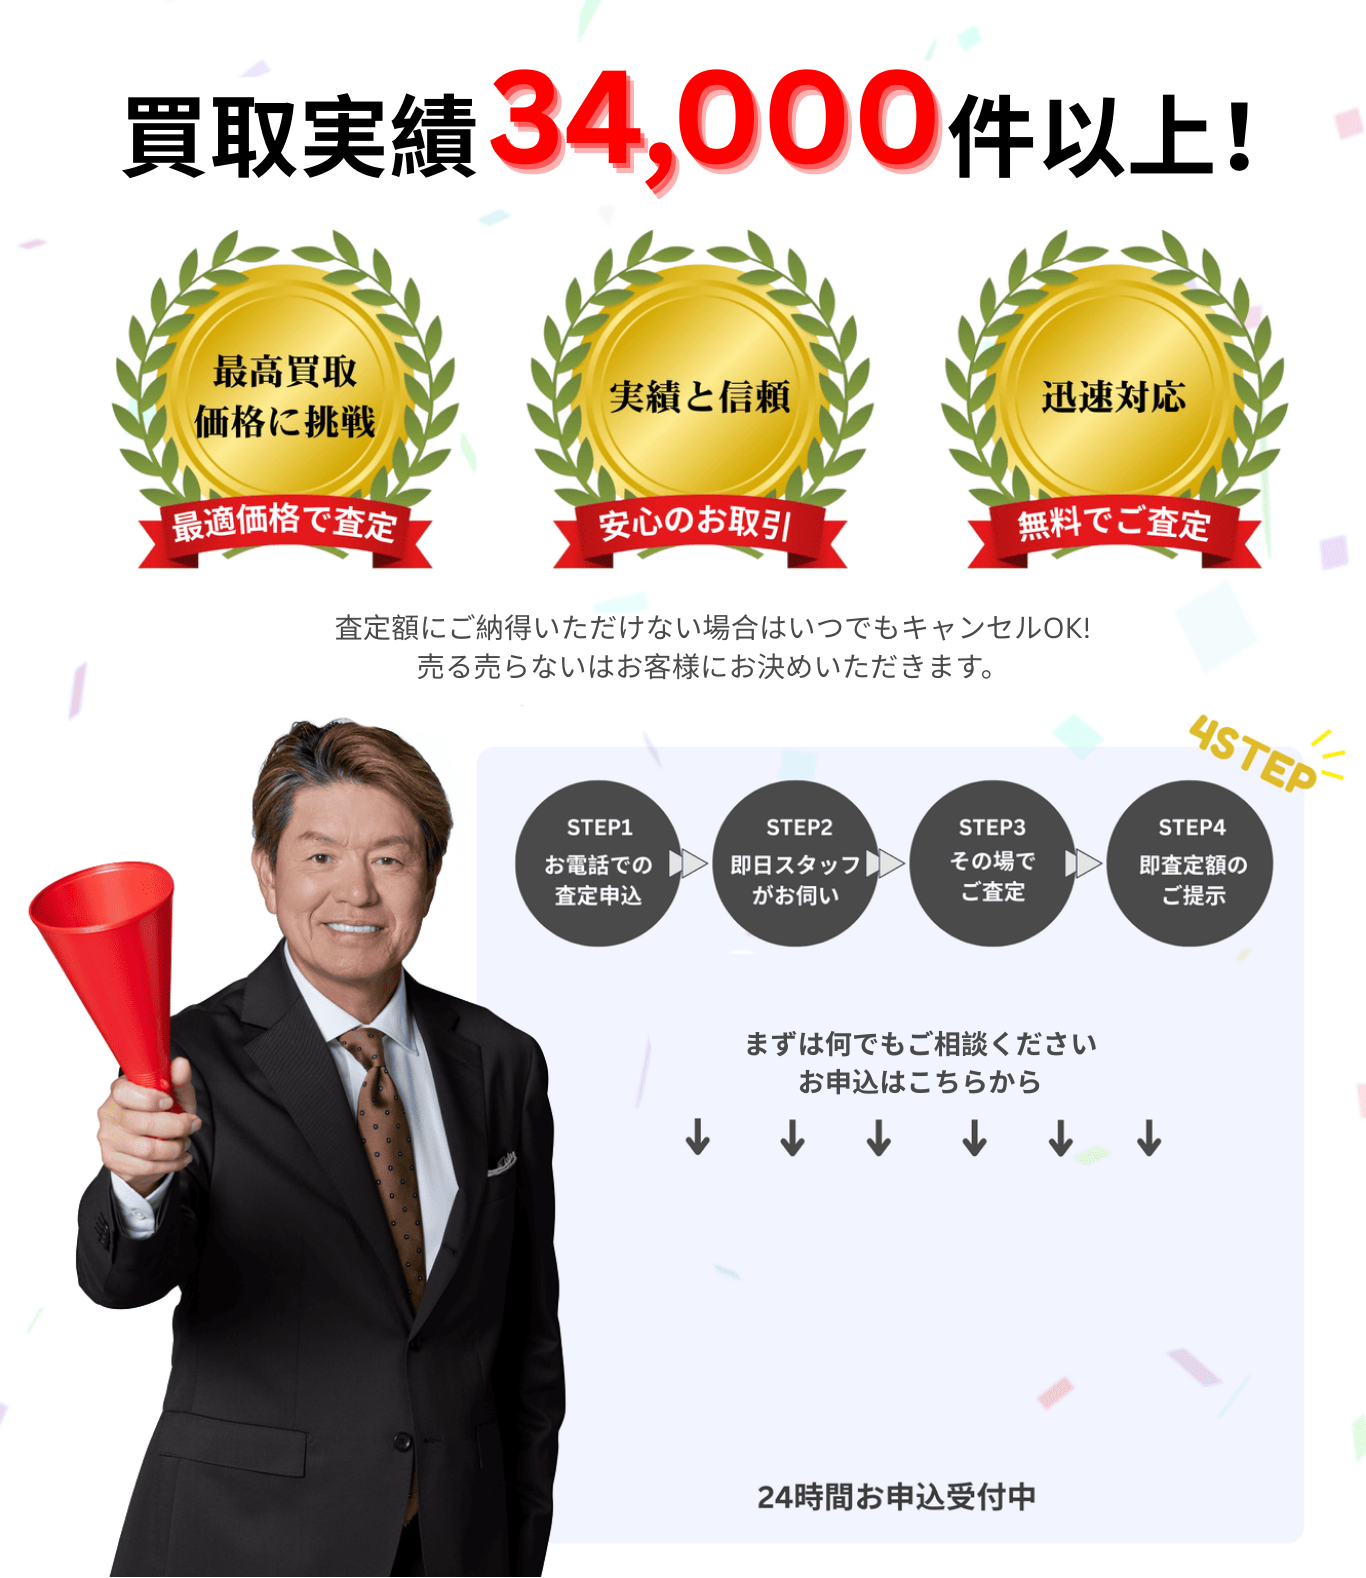
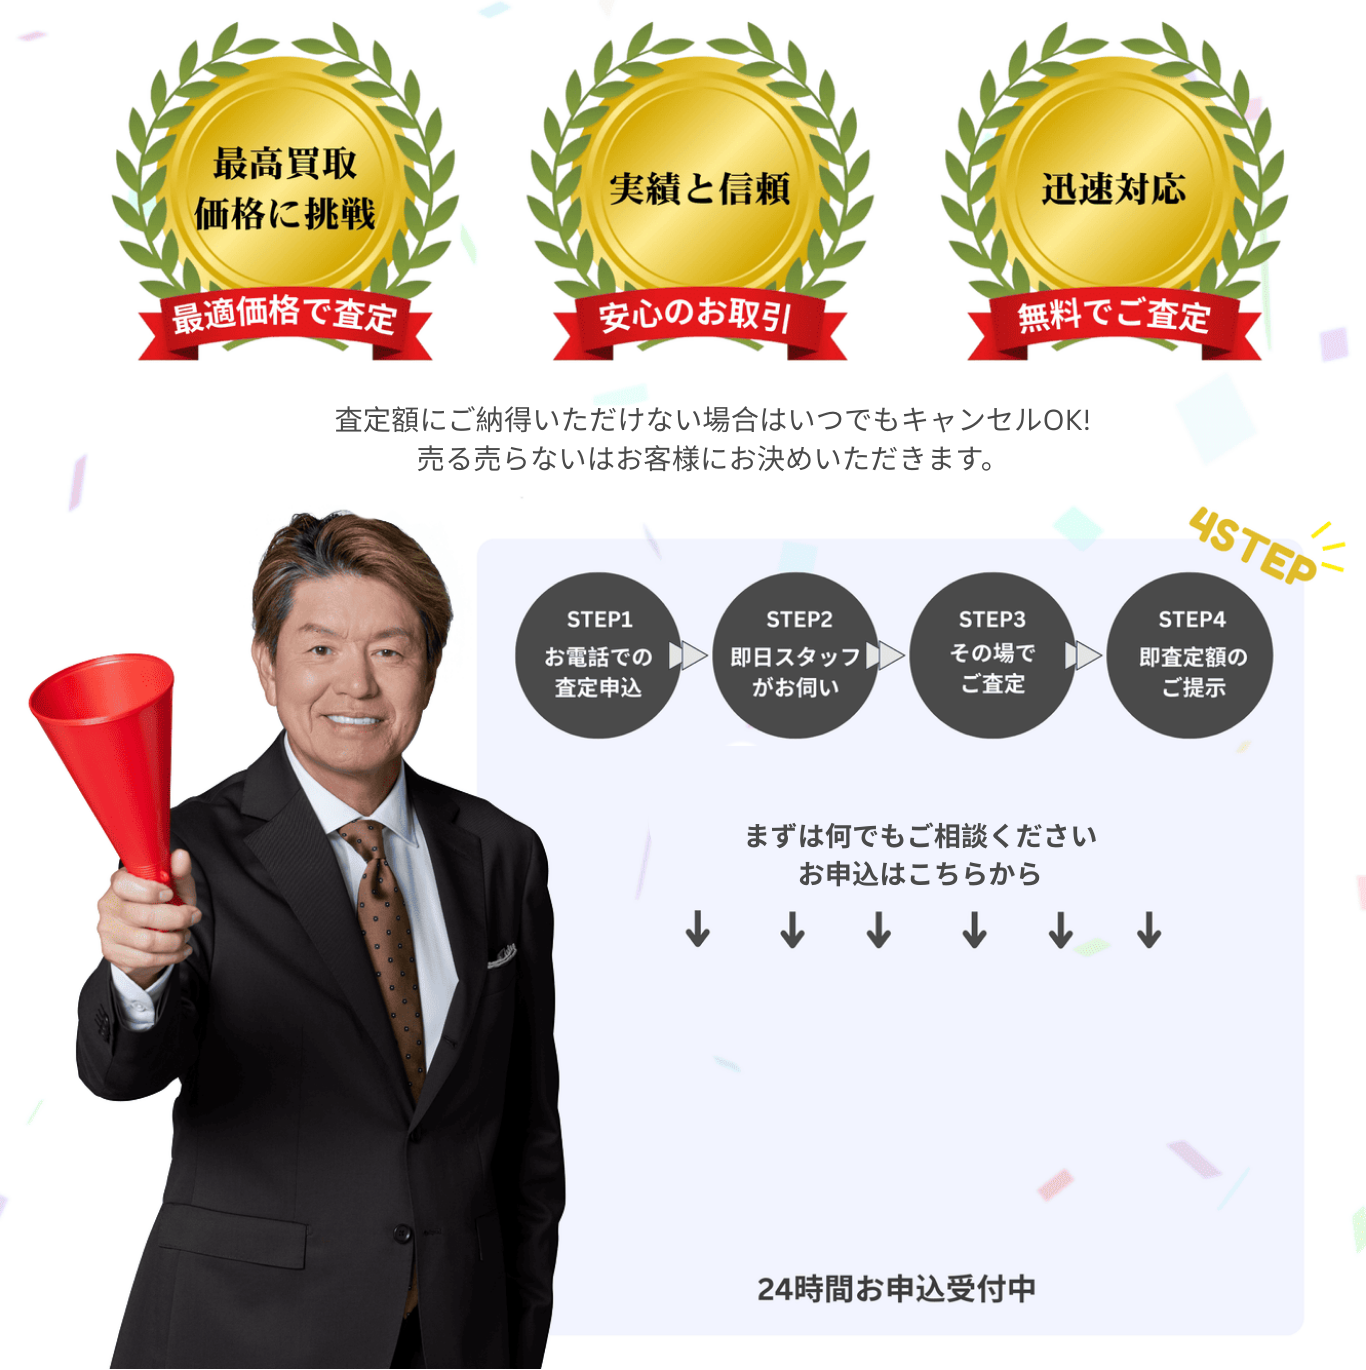
修正依頼

diff --git a/index.html b/index.html
@@ -101,7 +101,7 @@
 			<ul>
 				<li><a href="#">ホーム</a></li>
 				<li><a href="#about">サービス内容</a></li>
-				<li><a href="#hero">お問い合わせ</a></li>
+				<li><a href="#customer">お問い合わせ</a></li>
 				<li><a href="QA.html">Q&A</a></li>
 				<li class="line-button-phone"><a href="https://lin.ee/xbqQiAp" class="line-button">LINEで無料査定</a></li>
 			</ul>
@@ -121,14 +121,15 @@
 	<!-- ヒーローセクション -->
 	<section id="hero" class="hero hero_pc">
 		<div class="heroBackground">
-			<img src="img/heroTop2.png" alt="説明テキスト" class="heropage-image">
+			<img src="img/heroTop.png" alt="説明テキスト" class="heropage-image">
 		</div>
 	</section>
 	<section id="hero" class="hero hero_phone">
 		<div class="heroBackground">
-			<img src="img/heroTop_phone2.png" alt="説明テキスト" class="heropage-image">
+			<img src="img/heroTop_phone.png" alt="説明テキスト" class="heropage-image">
 		</div>
 	</section>
+	<img src="img/AchivementNums.png" alt="説明テキスト" class="jisseki-image">
 
 	<section class="page3 page3_pc">
 		<div class="background">
@@ -152,7 +153,7 @@
 
 	<section class="purchase-items">
 		<div class="container">
-			<h2>買取品目</h2>
+			<img src="img/purchase_title.png" class="purchase-items_title">
 			<p>ご自宅に眠っている不用品が思わぬ値段になることも！</p>
 
 			<ul class="items-grid4">
@@ -229,18 +230,25 @@
 					<span>お酒</span>
 				</li>
 			</ul>
-			<p class="cta">今すぐ<a href="https://lin.ee/xbqQiAp" class="highlight">買取依頼</a>をしたい方は<a
-					href="https://lin.ee/xbqQiAp" class="highlight">こちら</a>から</p>
+			<img src="img/item_subtitle.png" class="item_subtitle">
+<!--			<p class="cta">今すぐ<a href="https://lin.ee/xbqQiAp" class="highlight">買取依頼</a>をしたい方は<a-->
+<!--					href="https://lin.ee/xbqQiAp" class="highlight">こちら</a>から</p>-->
 		</div>
 	</section>
+	
+	<section class=""
 
 	<!-- Aboutセクション全体 -->
 	<section id="about" class="about">
 		<div class="container">
+			<a href="https://lin.ee/xbqQiAp" class="cta-btn">
+				<img src="img/cta.png" alt="お問い合わせはこちら" class="cta">
+			</a>
+
 			<div class="page-image-wrapper">
-				<img src="img/AchivementNums.png" alt="実績件数" class="page-image">
+				<img src="img/threeReasons.png" class="threeReasons">
 			</div>
-			<h1>買取スマートはここがすごい！</h1>
+<!--			<h1>買取スマートはここがすごい！</h1>-->
 
 			<!-- Reason 1 -->
 			<div class="reason reason-left">
@@ -317,8 +325,7 @@
 
 	<section class="purchase-results">
 		<div class="container">
-			<h2>買取実績例</h2>
-
+			<img src="img/item-results_title.png" class="item-results_title">
 			<div class="results-grid">
 				<!-- Row 1 -->
 				<div class="row">
@@ -445,7 +452,7 @@
 					<div class="result-item">
 						<img src="jisseki-items/imitation.png" alt="イミテーション">
 						<div class="result-info">
-							<span class="category">イミテーション<br>まとめ</span>
+							<span class="category">イミテーション</span>
 							<span class="name">買取価格</span>
 							<span class="price">25,000円</span>
 						</div>
@@ -497,11 +504,12 @@
 				<button class="show-less-btn" onclick="toggleView(false)" style="display: none;">閉じる</button>
 			</div>
 		</div>
+
 	</section>
 
-	<section class="customer-reviews">
+	<section id="customer" class="customer-reviews">
 		<div class="review-container">
-			<h2 class="review-title">お客様の声</h2>
+			<img src="img/customer.png" class="customer">
 			<div class="content-wrapper">
 				<!-- レビューのスライダー -->
 				<div class="review-slider">

diff --git a/css/purchaseSection.css b/css/purchaseSection.css
@@ -1,8 +1,14 @@
+.purchase-items_title{
+	margin: auto;
+	width: 100%;
+}
+
 /* 基本スタイル */
 .purchase-items {
-	background-color: #f2f2f2;
+	background-color: #ffc74e;
 	padding: 2rem 1rem;
 	text-align: center;
+	padding-top: 0;
 }
 
 .purchase-items .container {
@@ -21,6 +27,7 @@
 	font-size: 1rem;
 	color: #555;
 	margin-bottom: 2rem;
+	font-weight: bold;
 }
 
 /* 共通のグリッドスタイル */
@@ -73,13 +80,22 @@
 	font-size: 1.7rem;
 	font-weight: bold;
 	color: #333;
-	margin-top: 2rem;
+	margin-top: 0;
 }
 
 .cta .highlight {
 	color: red;
 	font-weight: bold;
 	text-decoration: none;
+}
+
+.item_subtitle{
+	width: 100%;
+	margin-top: 20px;
+}
+
+.cta{
+	width: 100%;
 }
 
 /* レスポンシブ対応: 画面幅縮小時の調整 */
@@ -98,7 +114,7 @@
 	}
 
 	.purchase-items p {
-		font-size: 0.6rem;
+		font-size: 0.9rem;
 		/* 説明文を縮小 */
 		margin-bottom: 0.6rem;
 	}
@@ -115,24 +131,28 @@
 	}
 
 	.item {
-		padding: 0.5rem;
+		padding: 0.3rem;
 		/* 各アイテムの余白を縮小 */
 	}
 
 	.item span {
-		font-size: 0.5rem;
+		font-size: 0.55rem;
 		/* アイテム内の文字サイズを縮小 */
 		margin-top: 0;
+		font-weight: bold;
 	}
 
 	.purchase-items .cta {
 		font-size: 1.2rem;
 		font-weight: bold;
 		color: #333;
-		margin-top: 2rem;
 	}
 	
 	.item_hide{
 		display: none;
 	}
+}
+
+.item_subtitle{
+	max-width: 900px;
 }

diff --git a/css/page3.css b/css/page3.css
@@ -10,6 +10,13 @@
 	background-color: white;
 }
 
+.jisseki-image{
+	width: 80%;
+	margin: 10px auto;
+	display: flex;
+	max-width: 1263px;
+}
+
 .page3_phone {
 	display: none;
 }
@@ -22,7 +29,7 @@
 .background {
 	position: relative;
 	width: 100%;
-	max-width: 1263px;
+	max-width: 1100px;
 	/* 最大幅を設定 */
 	margin: auto;
 	height: auto;
@@ -41,7 +48,7 @@
 /* ボタンコンテナ */
 .button-container {
 	position: absolute;
-	top: 87%;
+	top: 84%;
 	/* 背景画像内の90%の高さに配置 */
 	left: 42%;
 	/* 背景画像内の60%の幅に配置 */
@@ -92,7 +99,7 @@
 	}
 	.button-container {
 		position: absolute;
-		top: 75.5%;
+		top: 71.5%;
 		/* 背景画像内の90%の高さに配置 */
 		left: 49.5%;
 		/* 背景画像内の60%の幅に配置 */

diff --git a/css/about.css b/css/about.css
@@ -4,6 +4,13 @@
 	font-family: "Hiragino Mincho Pro", serif;
 }
 
+.threeReasons{
+	width: 80%;
+	max-width: 1100px;
+	display: flex;
+	margin:auto;
+}
+
 /* コンテナのスタイル */
 .about .container {
 	max-width: 1263px;

diff --git a/css/jisseki.css b/css/jisseki.css
@@ -1,5 +1,9 @@
+.item-results_title{
+	width: 80%;
+}
+
 .purchase-results {
-	background-color: #fff;
+	background-color: #ece3e3;
 	padding: 2rem 1rem;
 	text-align: center;
 }

diff --git a/css/style.css b/css/style.css
@@ -4,7 +4,7 @@ body {
   font-family: Noto Sans JP, sans-serif;
   color: #333;
   line-height: 1.6;
-  background-color: #f5f5f5;
+  background-color: white;
 }
 
 h1, h2, h3 {

diff --git a/css/hero.css b/css/hero.css
@@ -6,6 +6,7 @@
 	display: flex;
 	justify-content: center;
 	align-items: center;
+	background-color: #c5dcf3;
 }
 
 .hero_phone {

diff --git a/css/review.css b/css/review.css
@@ -1,3 +1,7 @@
+.customer{
+	width: 100%;
+}
+
 .customer-reviews {
 	background-color: #f7f7f7;
 	padding: 2rem 1rem;
